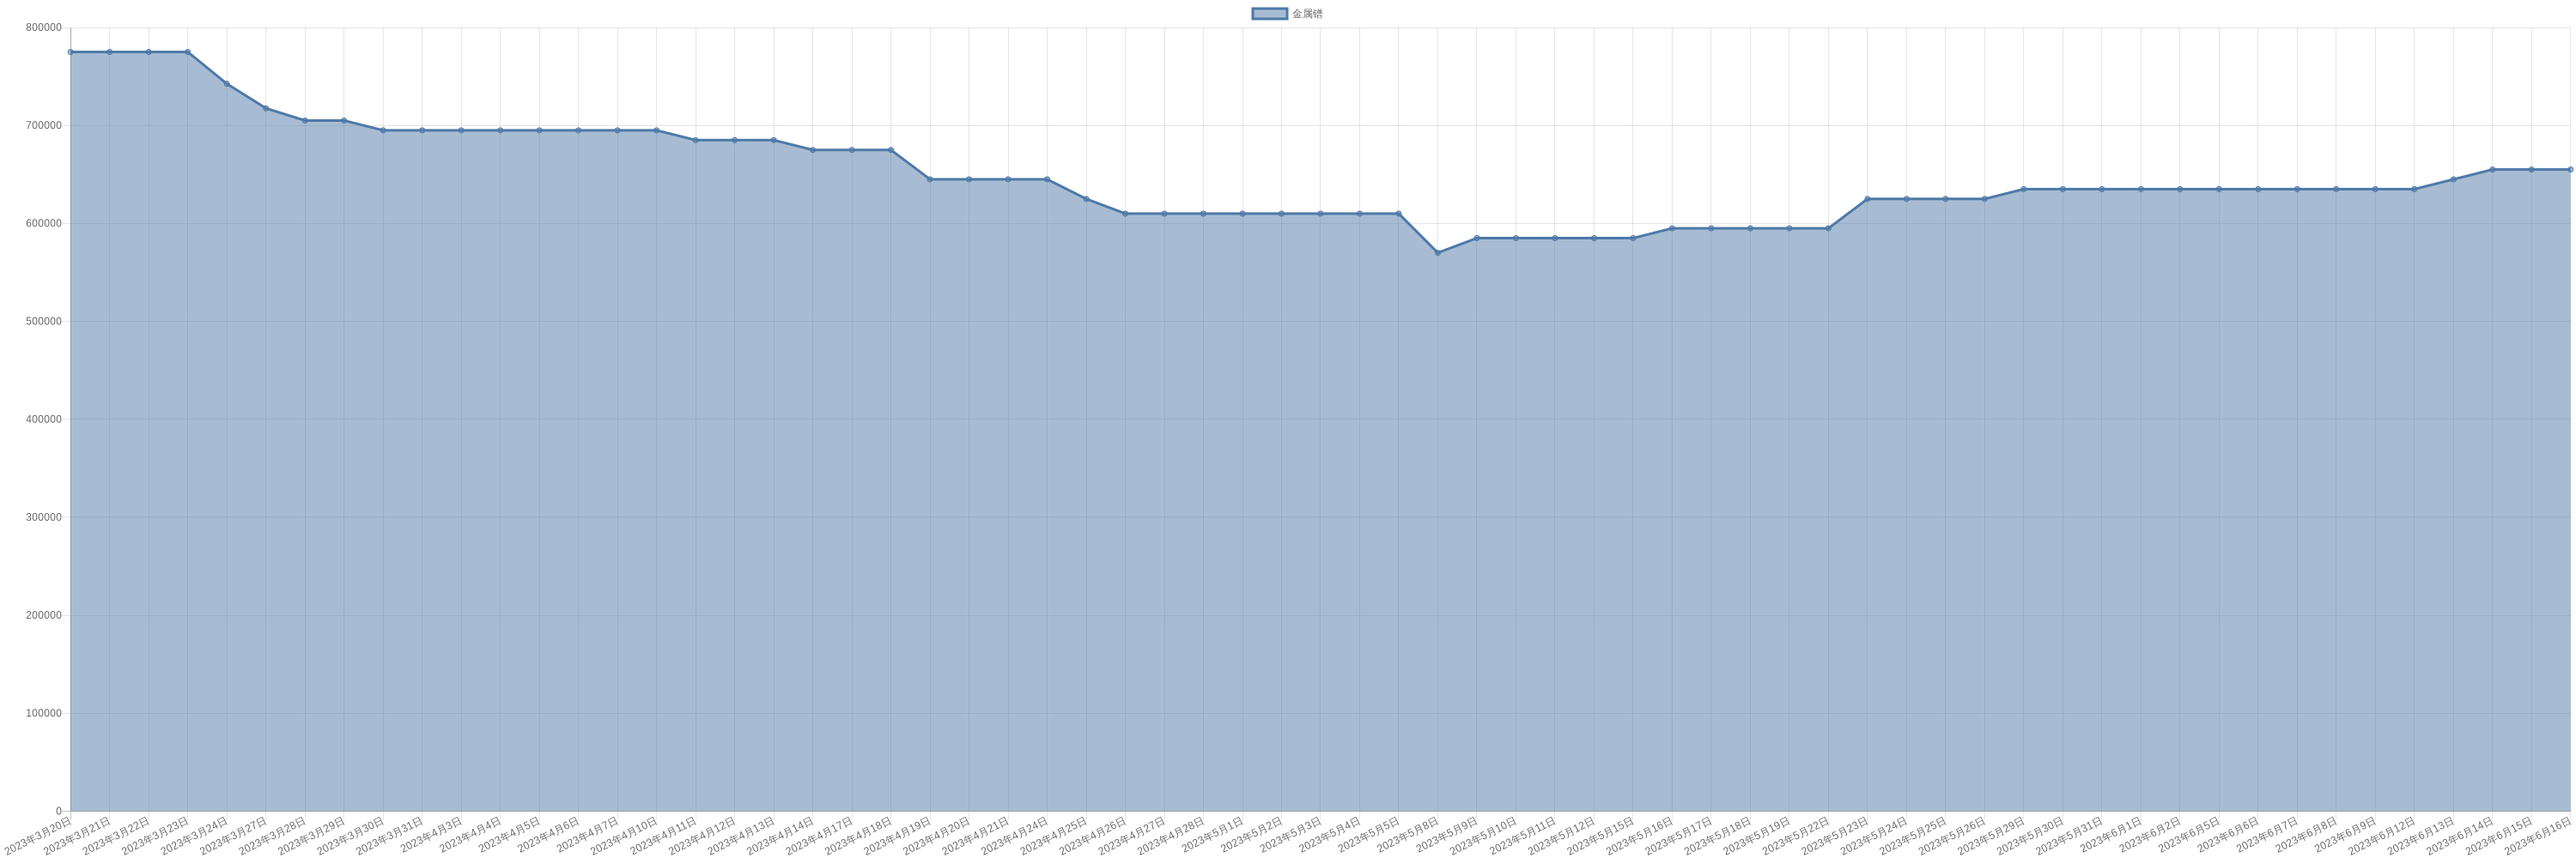
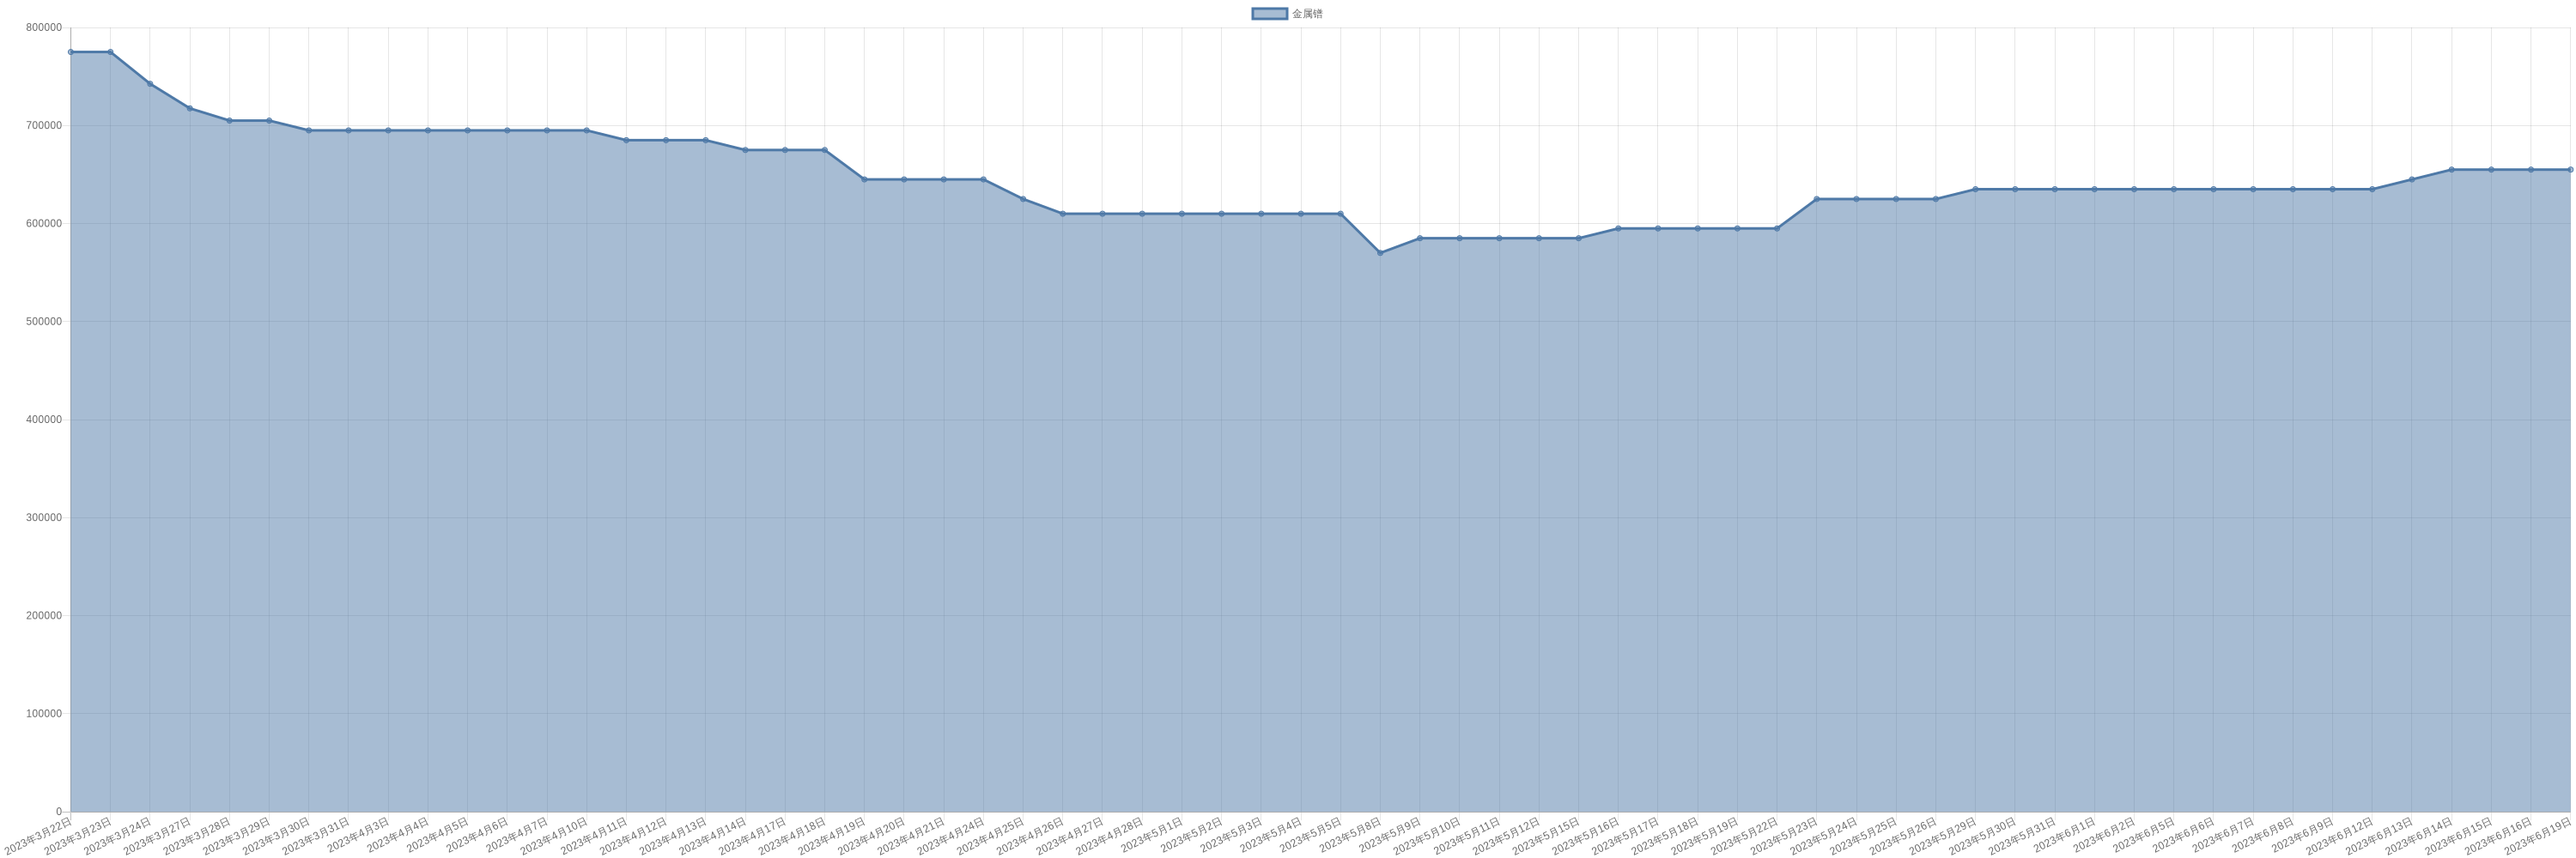
chore: sync commodity monitor

diff --git a/markdown/commodity/crudeOil.md b/markdown/commodity/crudeOil.md
@@ -2,6 +2,8 @@
 
 | 时间 | 价格 | 消息正文 |
 |:--:|:--:|:--:|
+|2023年6月19日WTI|71.93|6月19日WTI原油为71.93|
+|2023年6月19日Brent|76.61|6月19日Brent原油为76.61|
 |2023年6月16日WTI|70.62|6月16日WTI原油为70.62|
 |2023年6月16日Brent|75.67|6月16日Brent原油为75.67|
 |2023年6月15日WTI|68.27|6月15日WTI原油为68.27|

diff --git a/markdown/commodity/praseodymiumNeodymiumOxide.md b/markdown/commodity/praseodymiumNeodymiumOxide.md
@@ -8,6 +8,7 @@
 
 | 时间 | 价格 | 消息正文 |
 |:--:|:--:|:--:|
+|2023年6月19日|495000|6月19日镨钕氧化物为495000.00|
 |2023年6月16日|497500|6月16日镨钕氧化物为497500.00|
 |2023年6月15日|502500|6月15日镨钕氧化物为502500.00|
 |2023年6月14日|502500|6月14日镨钕氧化物为502500.00|

diff --git a/markdown/commodity/dyFeAlloy.md b/markdown/commodity/dyFeAlloy.md
@@ -8,6 +8,7 @@
 
 | 时间 | 价格 | 消息正文 |
 |:--:|:--:|:--:|
+|2023年6月19日|2080000|6月19日镝铁合金为2080000.00|
 |2023年6月16日|2080000|6月16日镝铁合金为2080000.00|
 |2023年6月15日|2090000|6月15日镝铁合金为2090000.00|
 |2023年6月14日|2090000|6月14日镝铁合金为2090000.00|

diff --git a/markdown/commodity/lithiumHydroxide.md b/markdown/commodity/lithiumHydroxide.md
@@ -8,6 +8,7 @@
 
 | 时间 | 价格 | 消息正文 |
 |:--:|:--:|:--:|
+|2023年6月19日|332500|6月19日氢氧化锂为332500.00|
 |2023年6月16日|332500|6月16日氢氧化锂为332500.00|
 |2023年6月15日|332500|6月15日氢氧化锂为332500.00|
 |2023年6月14日|332500|6月14日氢氧化锂为332500.00|

diff --git a/markdown/commodity/praseodymiumNeodymiumAlloy.md b/markdown/commodity/praseodymiumNeodymiumAlloy.md
@@ -8,6 +8,7 @@
 
 | 时间 | 价格 | 消息正文 |
 |:--:|:--:|:--:|
+|2023年6月19日|605000|6月19日镨钕合金为605000.00|
 |2023年6月16日|605000|6月16日镨钕合金为605000.00|
 |2023年6月15日|607500|6月15日镨钕合金为607500.00|
 |2023年6月14日|607500|6月14日镨钕合金为607500.00|

diff --git a/markdown/commodity/dysprosiumMetal.md b/markdown/commodity/dysprosiumMetal.md
@@ -8,6 +8,7 @@
 
 | 时间 | 价格 | 消息正文 |
 |:--:|:--:|:--:|
+|2023年6月19日|2710000|6月19日金属镝为2710000.00|
 |2023年6月16日|2710000|6月16日金属镝为2710000.00|
 |2023年6月15日|2710000|6月15日金属镝为2710000.00|
 |2023年6月14日|2710000|6月14日金属镝为2710000.00|

diff --git a/markdown/commodity/dysprosiumOxide.md b/markdown/commodity/dysprosiumOxide.md
@@ -8,6 +8,7 @@
 
 | 时间 | 价格 | 消息正文 |
 |:--:|:--:|:--:|
+|2023年6月19日|2140000|6月19日氧化镝为2140000.00|
 |2023年6月16日|2140000|6月16日氧化镝为2140000.00|
 |2023年6月15日|2150000|6月15日氧化镝为2150000.00|
 |2023年6月14日|2150000|6月14日氧化镝为2150000.00|

diff --git a/markdown/commodity/liquefiedNaturalGas.md b/markdown/commodity/liquefiedNaturalGas.md
@@ -8,6 +8,7 @@
 
 | 时间 | 价格 | 消息正文 |
 |:--:|:--:|:--:|
+|2023年6月19日|4376|6月19日液化天然气为4376.00|
 |2023年6月16日|3896|6月16日液化天然气为3896.00|
 |2023年6月15日|3890|6月15日液化天然气为3890.00|
 |2023年6月14日|3874|6月14日液化天然气为3874.00|

diff --git a/markdown/commodity/lithiumIronPhosphate.md b/markdown/commodity/lithiumIronPhosphate.md
@@ -8,6 +8,7 @@
 
 | 时间 | 价格 | 消息正文 |
 |:--:|:--:|:--:|
+|2023年6月19日|94000|6月19日磷酸铁锂为94000.00|
 |2023年6月16日|94000|6月16日磷酸铁锂为94000.00|
 |2023年6月15日|94000|6月15日磷酸铁锂为94000.00|
 |2023年6月14日|94000|6月14日磷酸铁锂为94000.00|

diff --git a/markdown/commodity/neodymium.md b/markdown/commodity/neodymium.md
@@ -8,6 +8,7 @@
 
 | 时间 | 价格 | 消息正文 |
 |:--:|:--:|:--:|
+|2023年6月19日|640000|6月19日金属钕为640000.00|
 |2023年6月16日|640000|6月16日金属钕为640000.00|
 |2023年6月15日|640000|6月15日金属钕为640000.00|
 |2023年6月14日|640000|6月14日金属钕为640000.00|

diff --git a/markdown/commodity/neodymiumOxide.md b/markdown/commodity/neodymiumOxide.md
@@ -8,6 +8,7 @@
 
 | 时间 | 价格 | 消息正文 |
 |:--:|:--:|:--:|
+|2023年6月19日|505000|6月19日氧化钕为505000.00|
 |2023年6月16日|505000|6月16日氧化钕为505000.00|
 |2023年6月15日|505000|6月15日氧化钕为505000.00|
 |2023年6月14日|505000|6月14日氧化钕为505000.00|

diff --git a/markdown/commodity/praseodymium.md b/markdown/commodity/praseodymium.md
@@ -8,6 +8,7 @@
 
 | 时间 | 价格 | 消息正文 |
 |:--:|:--:|:--:|
+|2023年6月19日|655000|6月19日金属镨为655000.00|
 |2023年6月16日|655000|6月16日金属镨为655000.00|
 |2023年6月15日|655000|6月15日金属镨为655000.00|
 |2023年6月14日|655000|6月14日金属镨为655000.00|
